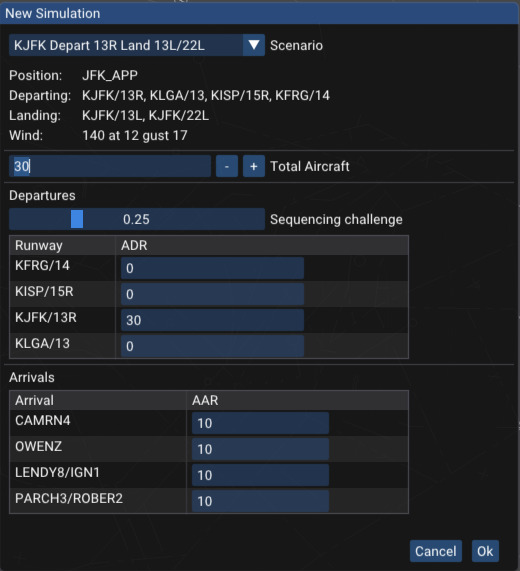
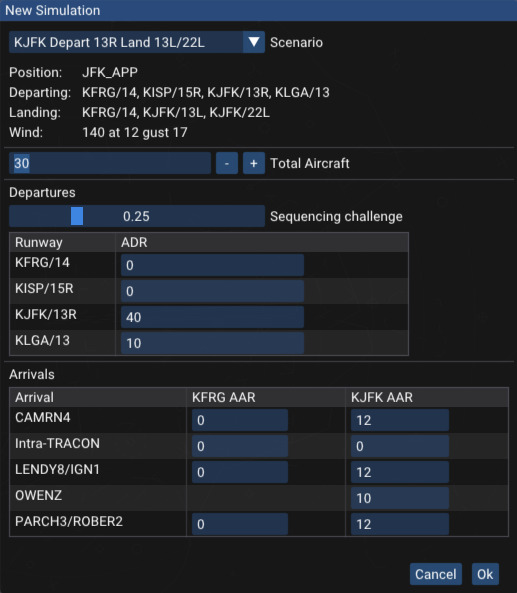
update

diff --git a/vice/index.html b/vice/index.html
@@ -70,12 +70,15 @@
 	  <li class="nav-item section-title"><a class="nav-link scrollto active" href="#section-using"><span class="theme-icon-holder me-2"><i class="fas fa-plane"></i></span>Using Vice</a></li>
 	  <li class="nav-item"><a class="nav-link scrollto" href="#started">Getting Started</a></li>
 	  <li class="nav-item"><a class="nav-link scrollto" href="#commands">ATC Commands</a></li>
+	  <li class="nav-item"><a class="nav-link scrollto" href="#airspace">Airspace</a></li>
 	  <li class="nav-item"><a class="nav-link scrollto" href="#jfk">KJFK Scenarios</a></li>
+	  <li class="nav-item"><a class="nav-link scrollto" href="#phl">KPHL Scenarios</a></li>
 	  <li class="nav-item section-title mt-3"><a class="nav-link scrollto" href="#section-installation"><span class="theme-icon-holder me-2"><i class="fas fa-arrow-down"></i></span>Installation</a></li>
 	  <li class="nav-item"><a class="nav-link scrollto" href="#install-windows">Windows</a></li>
 	  <li class="nav-item"><a class="nav-link scrollto" href="#install-mac">Mac</a></li>
 	  <li class="nav-item"><a class="nav-link scrollto" href="#install-mac">Linux</a></li>
 	  <li class="nav-item"><a class="nav-link scrollto" href="#bugs">Reporting Bugs</a></li>
+	  <li class="nav-item"><a class="nav-link scrollto" href="#releases">Release History</a></li>
 <!--	  <li class="nav-item section-title mt-3"><a class="nav-link scrollto" href="#section-faqs"><span class="theme-icon-holder me-2"><i class="fas fa-lightbulb"></i></span>FAQs</a></li>
 -->
 	</ul>
@@ -90,19 +93,19 @@
 <img src="vice-demo.gif" srcset="vice-demo-2x.gif 2x" width="1198" height="548" class="img-fluid" alt="screen capture of demo">
 </div>
     <br>
-	    <h1 class="docs-heading">Using Vice <span class="docs-time">Last updated: 2023-02-18</span></h1>
+	    <h1 class="docs-heading">Using Vice <span class="docs-time">Last updated: 2023-02-27</span></h1>
 
 	    <section class="docs-intro">
-	      <p><i>Vice</i> is (now) an air traffic control simulator, focused on TRACON.
+	      <p><i>vice</i> is (now) an air traffic control simulator, focused on TRACON.
                 Its goal is to provide a training experience similar to a VATSIM sweatbox with an instructor, 
                 just without the instructor, making it possible to better
-                prepare for sweatboxes and to practice vectoring techniques without being on the network.
+                prepare for sweatboxes and to practice vectoring and traffic handling techniques without being on the network.
                 It presents a STARS-like interface, but with simulated traffic and other controllers.
               </p>
-              <p><i>Vice</i> currently only supports departure and arrival control
-                scenarios at KJFK, though adding scenarios at more
-                airports wouldn't be too much work; KPHL will
-                likely come next.  <a href="mailto:matt@pharr.org">Get in touch</a> if you're interested in helping!
+              <p><i>vice</i> currently supports departure and arrival control
+                scenarios at KJFK and KPHL, though adding scenarios at more
+                airports wouldn't be too much work.
+                <a href="mailto:matt@pharr.org">Get in touch</a> if you're interested in helping!
               </p>
               <p>
                 There is a short <a href="https://youtu.be/MNFpFaT1k7s">video overview</a> that gives a tour of the system.
@@ -112,24 +115,28 @@
 
 	  <section class="docs-intro" id="started">
             <h2 class="section-heading">Getting Started</h2>
-            <p>The radar client interface that <i>Vice</i> provides is based on STARS, by way of reimplementing most of the functionality in 
+            <p>The radar client interface that <i>vice</i> provides is based on STARS, by way of reimplementing most of the functionality in 
               <a href="https://vstars.rosscarlson.dev">vSTARS</a>. In general, all of the keyboard and menu commands that are available in vSTARS
-              are available in <i>Vice</i> (though quicklook and CRDA are not yet implemented).  See the <a href="https://vstars.rosscarlson.dev/Assets/Files/vSTARS%20Command%20Reference.pdf">vSTARS Command Reference</a> for a summary of the commands supported.
-              The appearance of <i>Vice</i> can be similarly configured using the DCB buttons at the top of the window.
+              are available in <i>vice</i> (though quicklook and CRDA are not yet implemented).  See the <a href="https://vstars.rosscarlson.dev/Assets/Files/vSTARS%20Command%20Reference.pdf">vSTARS Command Reference</a> for a summary of the commands supported.
+              The appearance of <i>vice</i> can be similarly configured using the DCB buttons at the top of the window.
             </p>
             <p>
-              When <i>Vice</i> is launched, a window is shown for configuring the simulation.
-              A number of scenarios are available, some departure-only and some including both departures and arrivals.
+              When <i>vice</i> is launched, a window is shown for configuring the simulation.
+              A number of scenarios are available, some departure-only and
+              some including both departures and arrivals.
+              Here is one of the KJFK scenarios:
             </p>
             <div class="text-center">
-              <img src="config.jpg" srcset="config-2x.jpg 2x" width="517" height="594" class="img-fluid" alt="configuration dialog box">
+              <img src="config.jpg" srcset="config-2x.jpg 2x" width="517" height="593" class="img-fluid" alt="configuration dialog box">
             </div>
             <br>
             <p>
               In addition to the total number of aircraft to launch in the simulation, it is possible to set the average departure rate (ADR)
               for all of the airports that may have departures in the scenario as well as the average arrival rate (AAR) for all of the
-              active arrivals.
-              Both of these are specified in terms of aircraft per hour, so an ADR of 30 corresponds to an aircraft  departing
+              active arrival airports.
+              (Here, we have the option of also having arrivals to Republic,
+              KFRG, a JFK satellite airport.)
+              Both of these rates are specified in terms of aircraft per hour, so an ADR of 30 corresponds to an aircraft  departing
               every two minutes (on average).
               If you'd like an arrival-only scenario, for example, just set all of the departure rates to zero.
               The "Sequencing challenge" slider controls how challenging the departure sequence is&mdash;the higher it is, the more likely it is
@@ -149,7 +156,7 @@
             <div class="text-center">
               <img src="menu.jpg" srcset="menu-2x.jpg 2x" width="133" height="107" class="img-fluid" alt="configuration dialog box">
             </div>
-            </br>
+            <br>
             <p>To adjust the amount of space used for flight strips, right click the line separating the flight strips from the
               radar window and drag left or right with your mouse.
               </p>
@@ -207,7 +214,7 @@
                     <td><code>D</code><i>alt</i></td>
                     <td>Directs the aircraft to descend to the specified
                     altitude, given in hundreds of feet.</td>
-                    <td><code>D020</code></td>
+                    <td><code>D20</code></td>
                   </tr>
                   <tr>
                     <td><code>S</code><i>knots</i></td>
@@ -239,14 +246,63 @@
 
 	    </section><!--//docs-intro-->
 
+	  <section class="docs-intro" id="airspace">
+            <h2 class="section-heading">Airspace</h2>
+            <p>
+              <i>vice</i> is able to indicate when aircraft are outside of the departure or approach airspace,
+              if it has information about the airspace boundaries.
+              (This information is currently only available for KPHL.)
+              If an aircraft is outside of its assigned airspace, a red "AS" error will be printed at the
+              top of its datablock, as shown below.
+              The valid altitudes for the aircraft are shown as well, if there are any valid altitudes
+              at its current location.
+              For example, the aircraft below is at 5,000' but should be between 10,000' and 12,000' (or should be at a different location!)
+            <div class="text-center">
+              <img src="violation.jpg" srcset="violation-2x.jpg 2x" width="100" height="89" class="img-fluid" alt="configuration dialog box">
+            </div>
+            </p>
+
+            <p>
+              Two commands are available to draw the boundaries and altitude ranges of the departure and approach airspace.
+              (Note that the placement of the drawn altitude labels is not always ideal.)
+              </p>
+              <table class="table table-bordered">
+                <thead>
+                  <tr>
+                    <th>Command</th>
+                    <th>Function</th>
+                  </tr>
+                </thead>
+                <tbody>
+                  <tr>
+                    <td><code>DA</code></td>
+                    <td>Draw the approach airspace, or stop drawing the approach airspace if it is currently being shown.</td>
+                  </tr>
+                  <tr>
+                    <td><code>DD</code></td>
+                    <td>Draw the departure airspace, or stop drawing the departure airspace if it is currently being shown.</td>
+                  </tr>
+                </tbody>
+              </table>
+
+          </section>
+
 	  <section class="docs-intro" id="jfk">
             <h2 class="section-heading">KJFK Scenarios</h2>
 
             <p>
+              Scenarios are available for all of the usual JFK configurations.
+              It is also possible to include
+              KFRG arrivals, KLGA departures to the Southwest and to water gates, and KISP departures
+              to the North gate, if desired.
+              The "intra-TRACON" arrivals are flights from nearby
+              airports that don't arrive via STARS but are instead inbound from COL, ZIGGI, and DPK.
+            </p>
+            <p>
               Conveniently, the identifiers used for approaches with the "expect approach" and "cleared approach"
               commands are the same as the ones used for scratchpads.
               (Thus, you can practice scratchpad assignment while you're at it!)
-              Only ILS and RNAV approaches are currently available in <i>Vice</i>; the table below summarizes them.
+              Only ILS and RNAV approaches are currently available in <i>vice</i>; the table below summarizes the ones at KJFK.
               </p>
 
               <table class="table table-bordered">
@@ -275,7 +331,7 @@
                   </tr>
                   <tr>
                     <td>13R</td>
-                    <td>n/a</td>
+                    <td>&mdash;</td>
                     <td><code>R3R</code></td>
                   </tr>
                   <tr>
@@ -301,7 +357,106 @@
                 </tbody>
                 </table>
 
+            <p>
+             These are the supported KFRG approaches:
+              </p>
+
+              <table class="table table-bordered">
+                <thead>
+                  <tr>
+                    <th>Runway</th>
+                    <th>ILS</th>
+                    <th>RNAV</th>
+                  </tr>
+                </thead>
+                <tbody>
+                  <tr>
+                    <td>1</td>
+                    <td>&mdash;</td>
+                    <td><code>R1</code></td>
+                  </tr>
+                  <tr>
+                    <td>14</td>
+                    <td><code>I14</code></td>
+                    <td><code>R14</code></td>
+                  </tr>
+                  <tr>
+                    <td>19</td>
+                    <td>&mdash;</td>
+                    <td><code>R19</code></td>
+                  </tr>
+                  <tr>
+                    <td>32</td>
+                    <td>&mdash;</td>
+                    <td><code>R32</code></td>
+                  </tr>
+                </tbody>
+                </table>
+
             </section>
+
+	  <section class="docs-intro" id="phl">
+            <h2 class="section-heading">KPHL Scenarios</h2>
+
+            <p><i>vice</i> offers scenarios at KPHL for both West and East ops.
+              There is also a "KPHL 27R Final" scenario that has flows of traffic from the
+              North and South that need to be merged in the approach.
+            </p>
+            <p>
+              As with KJFK, the identifiers used for the "expect approach" and "cleared approach"
+              commands correspond to the scratchpad labels used at KPHL.
+              For now only the ILS approaches are available (except for runway 35, where there is no localizer.)
+              They are summarized for reference below:
+            </p>
+              <table class="table table-bordered">
+                <thead>
+                  <tr>
+                    <th>Runway</th>
+                    <th>ILS</th>
+                    <th>RNAV</th>
+                  </tr>
+                </thead>
+                <tbody>
+                  <tr>
+                    <td>9L</td>
+                    <td><code>I9L</code></td>
+                    <td>&mdash;</td>
+                  </tr>
+                  <tr>
+                    <td>9R</td>
+                    <td><code>I9R</code></td>
+                    <td>&mdash;</td>
+                  </tr>
+                  <tr>
+                    <td>17</td>
+                    <td><code>17Z</code></td>
+                    <td>&mdash;</td>
+                  </tr>
+                  <tr>
+                    <td>26</td>
+                    <td><code>I26</code></td>
+                    <td>&mdash;</td>
+                  </tr>
+                  <tr>
+                    <td>27L</td>
+                    <td><code>27L</code></td>
+                    <td>&mdash;</td>
+                  </tr>
+                  <tr>
+                    <td>27R</td>
+                    <td><code>27R</code></td>
+                    <td>&mdash;</td>
+                  </tr>
+                  <tr>
+                    <td>35</td>
+                    <td>&mdash;</td>
+                    <td><code>G35</code></td>
+                  </tr>
+                </tbody>
+                </table>
+
+          </section>
+          
         </article>
 
         <article class="docs-article" id="section-installation">
@@ -309,13 +464,12 @@
             <h1 class="docs-heading">Installation</h1>
 
             <section class="docs-intro">
-              <p><i>Vice</i> provides installers for both Windows and Mac that make installation and upgrades straightforward.
-                On Linux, a more manual process is necessary.
+              <p>Installing <i>vice</i> is straightforward, at least on Windows and Macs; on Linux, more work is needed.
               </p>
             </section><!--//docs-intro-->
           </header>
           <section class="docs-section" id="install-windows">
-            <h2 class="section-heading"><i class="fa-brands fa-windows"></i> Windows</h2>
+            <h2 class="section-heading"><i class="fa-brands fa-windows"></i>Windows</h2>
 
             <p>To install <i>vice</i> on Windows, download and launch the installer below.
               After installation, <i>vice</i> will be available in the Windows Start menu and a shortcut will be added to your desktop.
@@ -330,16 +484,16 @@
                 <p>Your browser may warn about the installer being from an unknown publisher and when you run the installer, Windows will put up a window informing you that it has protected your PC and prevented the installer from running. Click "More Info" and then "Run anyway" to proceed with installation.</p>
               </div><!--//callout-block-->
             </div><!--//content-->
-            <a href="https://github.com/mmp/vice/releases/download/v0.3.1/Vice-v0.3.1-installer.msi" class="btn btn-primary"><i class="fas fa-download me-2"></i> Download Vice v0.3.1 for Windows</a>
+            <a href="https://github.com/mmp/vice/releases/download/v0.4.0/Vice-v0.4.0-installer.msi" class="btn btn-primary"><i class="fas fa-download me-2"></i> Download Vice v0.4.0 for Windows</a>
           </section><!--//section-->
           
           <section class="docs-section" id="install-mac">
             <h2 class="section-heading"><i class="fa-brands fa-apple"></i> Macintosh</h2>
 
-            <p>On a Macintosh computer, download the <i>zip</i> file below; it contains a universal binary that runs
+            <p>On a Mac, download the <i>zip</i> file below; it contains a universal binary that runs
               on both Intel (x86) and Apple (M1, ...) CPUs. Note that MacOS Big Sur or a more recent version of OSX is required.
               After opening the <i>zip</i> file, drag <i>Vice.app</i> to your <i>Applications</i> folder to install it.</p>
-            <a href="https://github.com/mmp/vice/releases/download/v0.3.1/Vice-v0.3.1-osx.zip" class="btn btn-primary"><i class="fas fa-download me-2"></i> Download Vice v0.3.1 for Mac</a>
+            <a href="https://github.com/mmp/vice/releases/download/v0.4.0/Vice-v0.4.0-osx.zip" class="btn btn-primary"><i class="fas fa-download me-2"></i> Download Vice v0.4.0 for Mac</a>
           </section><!--//section-->
 
           <section class="docs-section" id="install-linux">
@@ -360,6 +514,17 @@ how it simulates aircraft or the STARS interface.
 <p>The best way to report bugs is vie email at <i>matt@pharr.org</i>. Alternatively, if you have a github account, you can
   file bugs directly in <a href="https://github.com/mmp/vice/issues">vice's issue tracker</a>.
   </p>
+          </section><!--//section-->
+
+          <section class="docs-section" id="releases">
+            <h2 class="section-heading">Release History</h2>
+
+            <ul>
+              <li>0.2.1: Initial release</li>
+              <li>0.3.1: Added KJFK approach scenarios, improved aircraft flight model, routes, and airlines.</li>
+              <li>0.4.0: Added KPHL scenarios, airspace warnings, and KFRG arrivals and intra-TRACON arrivals for KJFK.</li>
+            </ul>
+
           </section><!--//section-->
 
         </article><!--//docs-article-->
